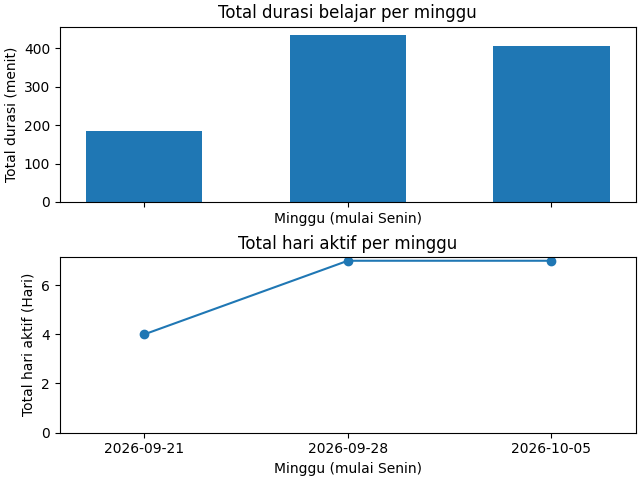
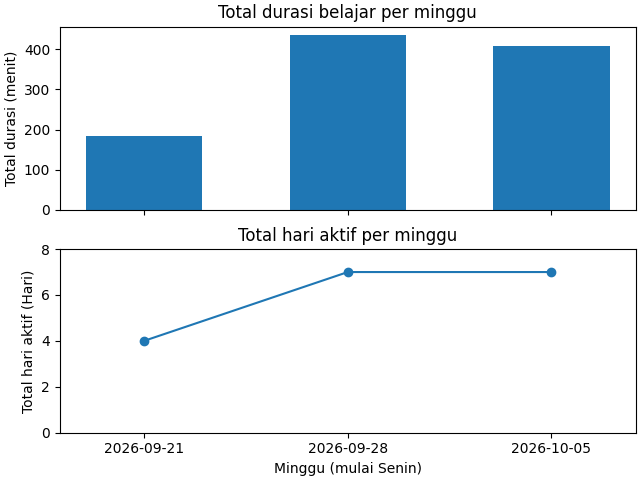
Charts Changes 1.1

diff --git a/charts.py b/charts.py
@@ -4,11 +4,10 @@ import matplotlib.pyplot as plt
 import pandas as pd
 from analysis import get_sessions_dataframe, weekly_summary, SESSIONS_COLUMNS
 
-
-def plot_minute_per_week(weekly):
+def _empty_figure(weekly):
     if weekly.empty:
         fig, ax = plt.subplots()
-    
+        
         ax.text(0.5, 0.5, 'Belum Ada Data', 
             fontsize=16, 
             fontweight='bold',
@@ -16,8 +15,14 @@ def plot_minute_per_week(weekly):
             ha='center', 
             va='center', 
             transform=ax.transAxes)
-    
+        
         ax.axis('off')
+        
+        return fig
+
+def plot_minute_per_week(weekly):
+    if weekly.empty:
+        fig = _empty_figure(weekly)
     
         return fig
         
@@ -34,25 +39,26 @@ def plot_minute_per_week(weekly):
     return fig
 
 def plot_weekly_overview(weekly):
+    if weekly.empty:
+        fig = _empty_figure(weekly)
+        
+        return fig
+
     fig, (ax_top, ax_bottom) = plt.subplots(nrows=2, ncols=1, sharex=True, constrained_layout=True)
 
     ax_top.bar(weekly.index, weekly["total_minute"], width=4)
     ax_bottom.plot(weekly.index, weekly["total_active_days"], marker="o")
 
     ax_top.set_title("Total durasi belajar per minggu")
-    ax_top.set_xlabel("Minggu (mulai Senin)")
     ax_top.set_ylabel("Total durasi (menit)")
 
     ax_bottom.set_title("Total hari aktif per minggu")
     ax_bottom.set_xlabel("Minggu (mulai Senin)")
     ax_bottom.set_ylabel("Total hari aktif (Hari)")
 
-    ax_top.set_xticks(weekly.index.date)
-    ax_top.set_xticklabels(weekly.index.date)
-
     ax_bottom.set_xticks(weekly.index.date)
     ax_bottom.set_xticklabels(weekly.index.date)
-    ax_bottom.set_ylim(bottom=0)
+    ax_bottom.set_ylim(bottom=0, top=8)
 
     return fig
 
